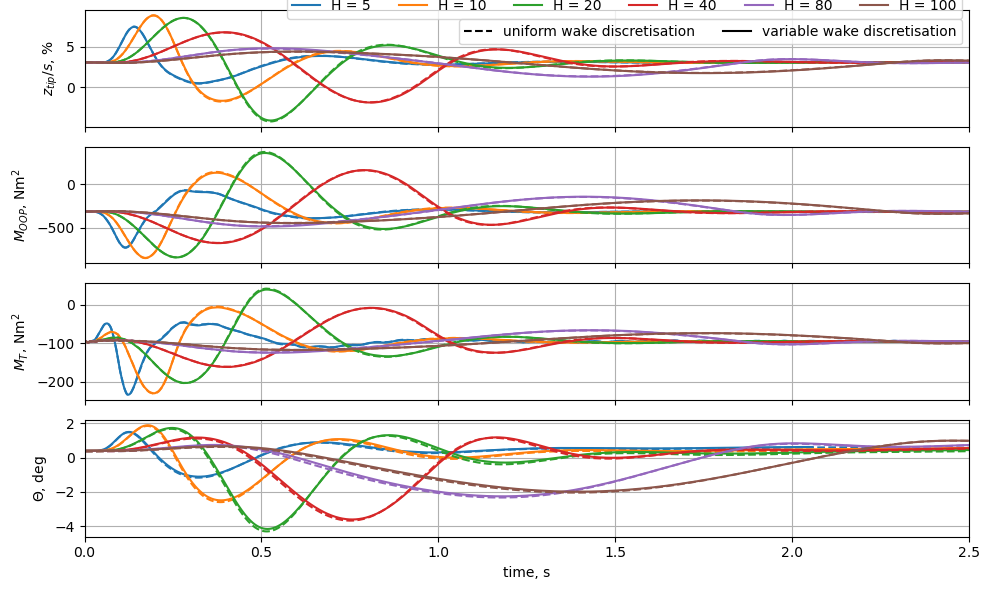
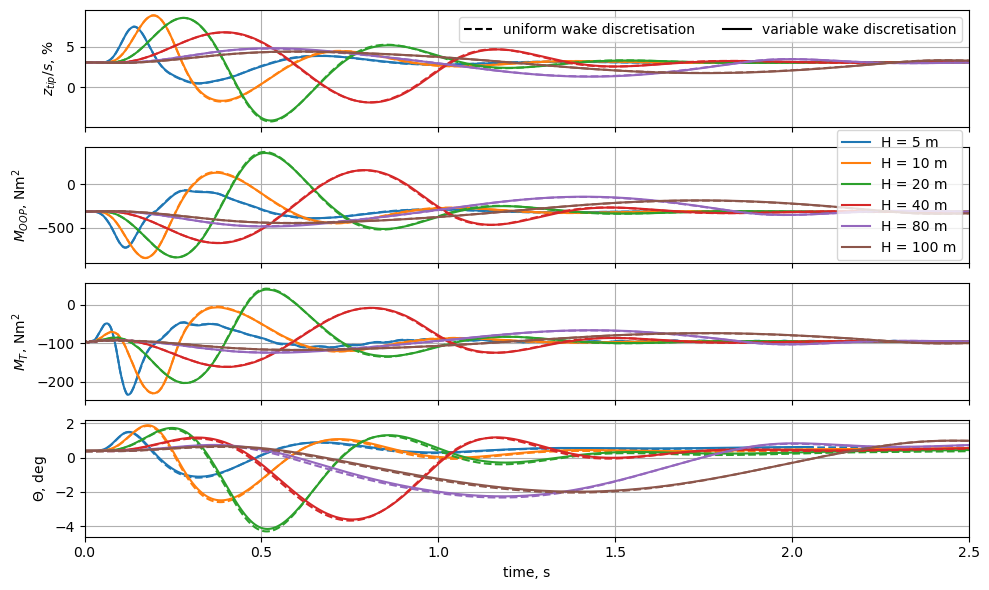
fix [gust response] finalize plot script

Changed region(s): [[0.3033, 0.0, 0.9707, 0.0915], [0.8493, 0.2136, 0.9707, 0.4271]]

diff --git a/04_Gust_Response/plot_gust_response.py b/04_Gust_Response/plot_gust_response.py
@@ -5,7 +5,7 @@ import os
 route_dir = os.path.abspath(os.path.dirname(os.path.realpath(__file__)))
 
 def plot_data(list_gust_lengths, list_gust_intensity, list_cfl1, list_polars, case_string_format,results_folder):
-    fig, axs = plt.subplots(4)
+    fig, axs = plt.subplots(4,figsize=(10,6))
     for i_gust_length, gust_length in enumerate(list_gust_lengths):
         for gust_intensity in list_gust_intensity:
             for cfl1 in list_cfl1:
@@ -18,24 +18,34 @@ def plot_data(list_gust_lengths, list_gust_intensity, list_cfl1, list_polars, ca
                         axs[iparameter].plot(data[1:,0], 
                                              data[1:,iparameter + 1], 
                                              color = list_colors[i_gust_length],
-                                             linestyle = get_linestyle(cfl1, polars), 
-                                             label= get_label(cfl1, polars, iparameter, gust_length))
+                                             linestyle = get_linestyle(cfl1, polars))
     for iax in range(len(axs)):
         plt.setp(axs[iax].get_xticklabels(), visible=iax == len(axs)-1)
         axs[iax].set_ylabel(list_ylabels[iax])
         axs[iax].set_xlim([0.,2.5])
+        axs[iax].grid()
+    handles = get_legend(list_gust_lengths)
+
     plt.xlabel("time, s")
     plt.tight_layout()
-    axs[0].legend(ncols=len(list_gust_lengths), loc='upper center', bbox_to_anchor=(0.7, 1.2))
-    plt.savefig(results_folder + 'dynamic_gust_response.png')
+    lgd = axs[1].legend(ncols=1, #len(list_gust_lengths), 
+                        loc='upper right', 
+                        handles = handles[:len(list_gust_lengths)],
+                        bbox_to_anchor=(1.0, 1.2))
+                        
+    lgd = axs[0].legend(ncols=2, loc='upper right', handles = handles[-2:],
+                        bbox_to_anchor=(1.0, 1.))
+    plt.savefig(results_folder + 'dynamic_gust_response.png', bbox_extra_artists=(lgd,), bbox_inches='tight')
     plt.show()
-                    
-def get_label(cfl1, polars, iparameter, gust_length):
-    if cfl1 or polars or iparameter >0:
-        return None
-    else:
-        return 'H = {} m'.format(gust_length)
-    
+
+def get_legend(list_gust_length):
+    from matplotlib.lines import Line2D
+    list_labels = []
+    for igust, gust_length in enumerate(list_gust_length):
+        list_labels.append(Line2D([0], [0],color=list_colors[igust], label = "H = {} m".format(gust_length)))
+    list_labels.append(Line2D([0], [0],color='k', linestyle='dashed', label='uniform wake discretisation')) 
+    list_labels.append(Line2D([0], [0],color='k', linestyle='solid', label='variable wake discretisation'))
+    return list_labels
 
 def get_linestyle(cfl1, polar):
     if bool(cfl1) and not bool(polar):
@@ -50,7 +60,7 @@ def main():
 
     list_gust_lengths = [5, 10, 20, 40, 80, 100]
     list_gust_intensity = [10]
-    list_cfl1 = [0, 1] 
+    list_cfl1 = [1, 0] 
     list_polars = [0] 
     plot_data(list_gust_lengths, list_gust_intensity, list_cfl1, list_polars, case_string_format, results_folder)
 
